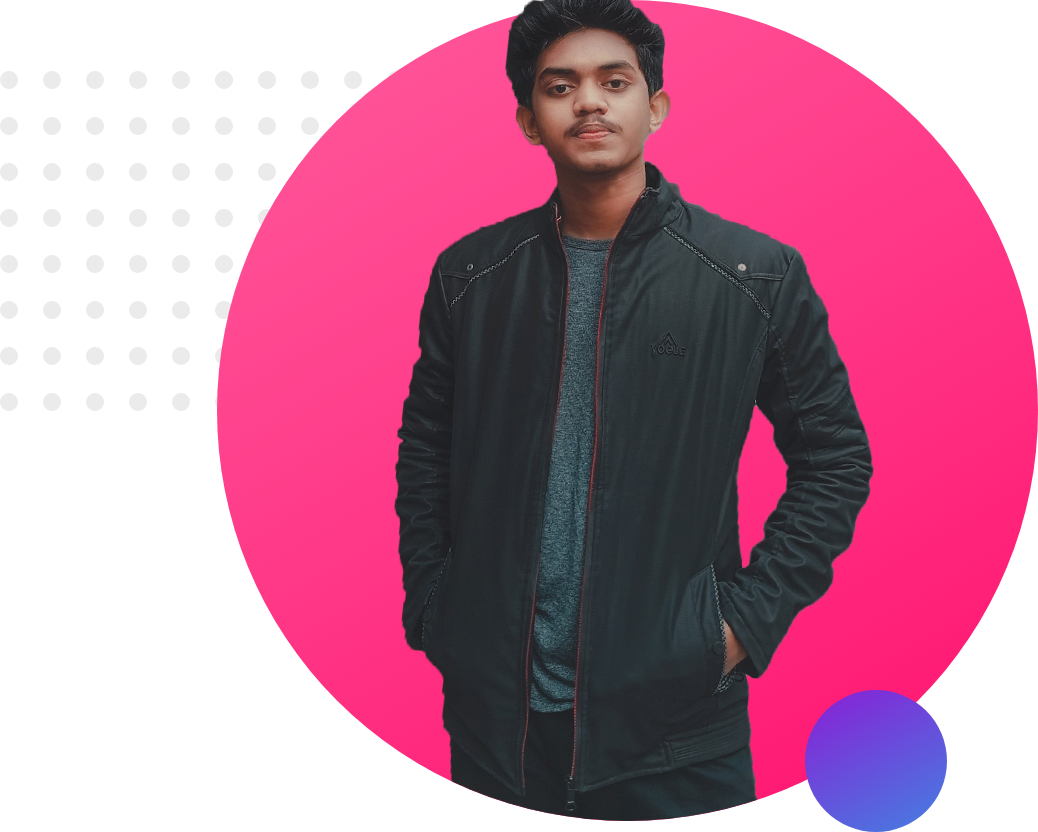
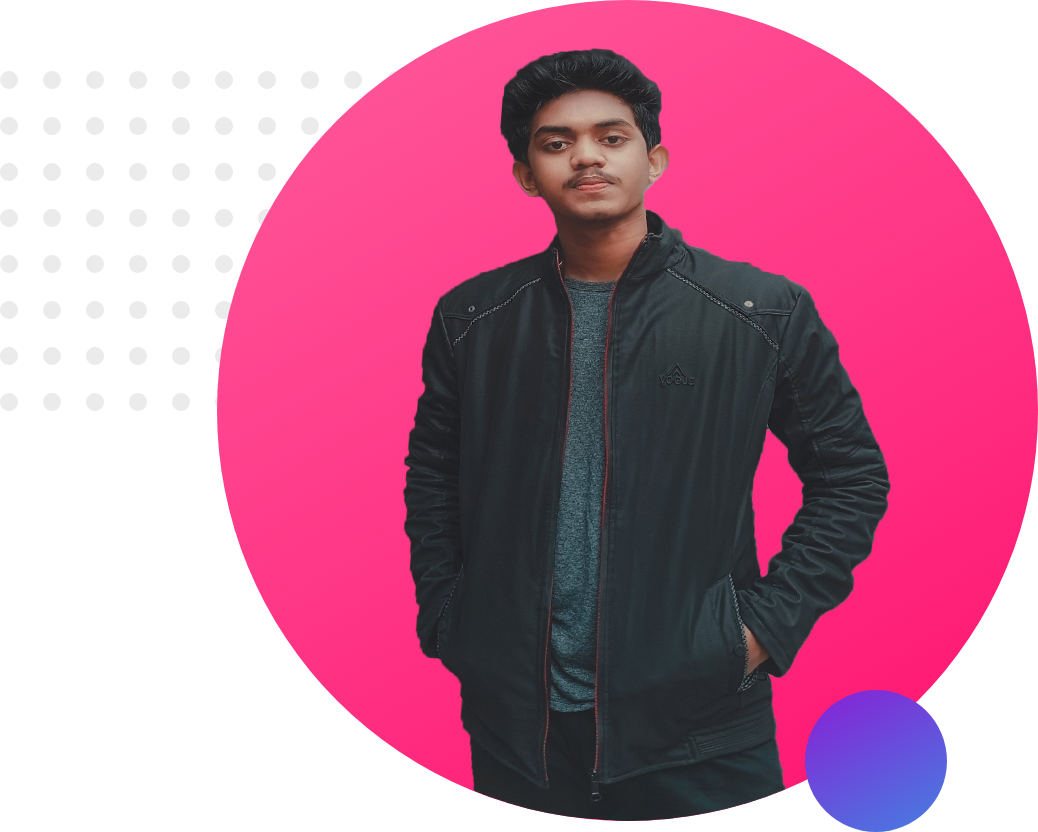
all done

Changed region(s): [[0.3699, 0.0, 0.8015, 0.9688], [0.6782, 0.4062, 0.8632, 0.9688], [0.7399, 0.4062, 0.7707, 0.4375]]

diff --git a/index.html b/index.html
@@ -4,8 +4,49 @@
     <meta charset="UTF-8">
     <meta name="viewport" content="width=device-width, initial-scale=1.0">
     <title>TAJBIUl WEB DEV</title>
+    <link rel="preconnect" href="https://fonts.gstatic.com">
+    <link href="https://fonts.googleapis.com/css2?family=Poppins:wght@400;500;600;700&display=swap" rel="stylesheet">
+    <link rel="stylesheet" href="style.css">
 </head>
 <body>
-    <h1>Hello World</h1>
+    <section class="top-banner">
+        <div class="half-width">
+            <h1>Welcome To</h1> 
+            <h1><span class="blue-highlight">Tajbiul</span> World</h1>
+            <h3>World Class Professional DEV</h3>
+            <p>Lorem ipsum dolor, sit amet consectetur adipisicing elit. Fugit provident commodi, possimus sint fugiat officia, voluptatum perspiciatis deleniti minima dolorem, recusandae ipsum. Cum quam, consequatur quis nesciunt ratione quibusdam sequi, amet consectetur adipisicing elit. Voluptatum perspiciatis deleniti minima dolorem. Eum nobis sit cum assumenda animi dignissimos!</p>
+            <a class="hireme" target="_blank" href="#">Hire Me</a>
+        </div>
+        <div class="half-width">
+            <img src="images/image 1.png" alt="My Picture">
+        </div>
+    </section>
+    <section class="dream-area">
+        <div class="half-width">
+            <img src="images/image 2.png" alt="My Images">
+        </div>
+        <div class="half-width">
+            <h2>Big Dream</h2>
+            <h3>Become a web developer</h3>
+            <p>Lorem ipsum dolor sit amet consectetur adipisicing elit. Aliquid repellat illo reiciendis, placeat facilis animi ullam repellendus, excepturi aliquid ipsa ut commodi deleniti vitae quibusdam veritatis vel ipsam nesciunt consequatur!</p>
+            <a class="hireme" target="_blank" href="#">Download Resume</a>
+        </div>
+    </section>
+    <section class="exp-area">
+        <h2 class="experience-name">Experience</h2>
+        <div id="full-stuck" class="half-width single">
+            <h2>Full Stack Web Developer</h2>
+            <h3 class="blue-highlight">2021-Present | Pro Level Developer</h3>
+            <p>I am the master of HTML, CSS and Javascript. I know everything needed to make a website function, efficient. I didn't stop with the web. I went beyond with most popular Javascript framework called Vue JS. I even know the deployment, server and security. I will give you 100% web solution.</p>
+        </div>
+        <div id="baby" class="half-width single">
+            <h2>Baby Web Developer</h2>
+            <h3 class="blue-highlight">2020-2021 | Programming Hero Learner</h3>
+            <p>They didn't offer me a job. But I made myself as a remove web developer. I made their website and showed it to them. They liked it. And uploaded the content. It was fun working at Programming Hero.</p>
+        </div>
+    </section>
+    <footer>
+        <p>© Tajbiul 2021, All Rights Reserved.</p>
+    </footer>
 </body>
 </html>

diff --git a/style.css b/style.css
@@ -1,0 +1,87 @@
+body{
+    font-family: 'Poppins', sans-serif;
+    margin: 0;
+}
+h1{
+    font-size: 50px;
+}
+p{
+    font-size: 18px;
+    color: dimgray;
+    margin-bottom: 25px;
+}
+h3{
+    font-weight: 500;
+}
+.blue-highlight{
+    color: #6E44DA;
+}
+.half-width{
+    width: 40%;
+    float: left;
+    margin-left: 5%;
+    padding-left: 2%;
+}
+.half-width img{
+    width: 100%;
+    padding-top: 50px;
+}
+.top-banner{
+    background-image: url(images/top-banner.png);
+    background-repeat: no-repeat;
+}
+section{
+    height: 500px;
+    padding-bottom: 200px;
+}
+.hireme{
+    text-decoration: none;
+    font-size: 20;
+    font-weight: 400;
+    background-image: linear-gradient(180deg,#FF1F77, #FF5095);
+    padding: 15px 45px;
+    border-radius: 10px;
+    color: white;
+}
+h2{
+    font-size: 35px;
+    font-weight: 600;
+}
+.dream-area{
+    background-image: url(images/dream-bg.png);
+    background-repeat: no-repeat;
+    background-position: right;
+}
+.experience-name{
+    text-align: center;
+    text-decoration: underline;
+    padding-bottom: 50px;
+    color: #6E44DA;
+    font-weight: 600;
+    font-size: 40px;
+}
+.single{
+    height: 80%;
+    border-radius: 5px;
+    box-shadow: 10px 10px 40px gray;
+    background-color: white;
+}
+.exp-area{
+    background-image: url(images/exp-bg.png);
+    background-repeat: no-repeat;
+    background-position: left;
+}
+#full-stuck{
+    border-left: 7px solid;
+    border-image: linear-gradient(180deg,#FF1F77,  #6E44DA);
+    border-image-slice: 1;
+}
+#baby{
+    border-left: 7px solid;
+    border-image: linear-gradient(180deg, #6E44DA, #FF1F77);
+    border-image-slice: 1;
+}
+footer p{
+    text-align: center;
+    font-size: 14px;
+}
